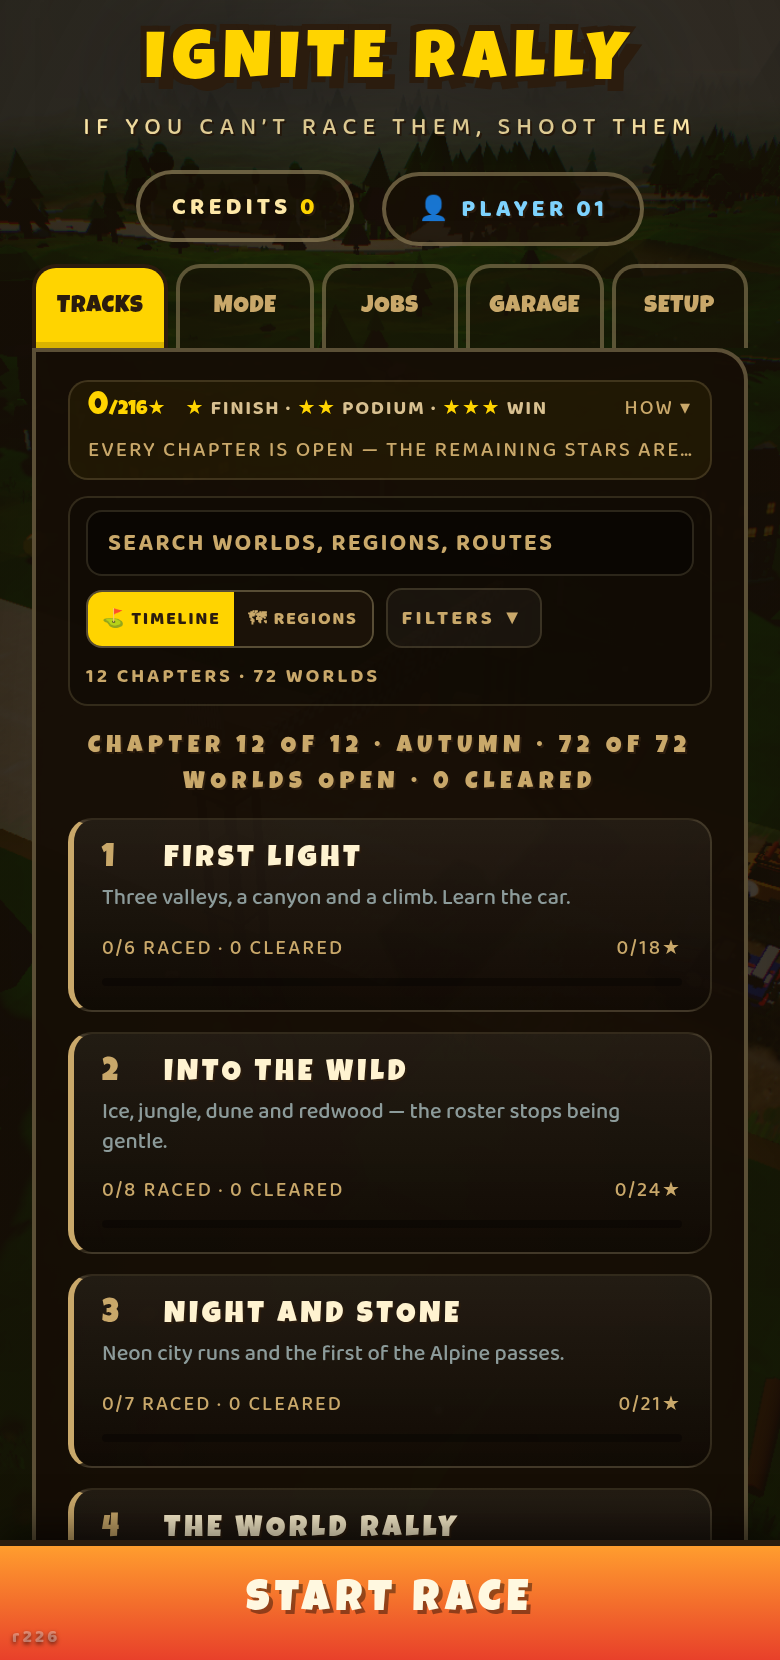
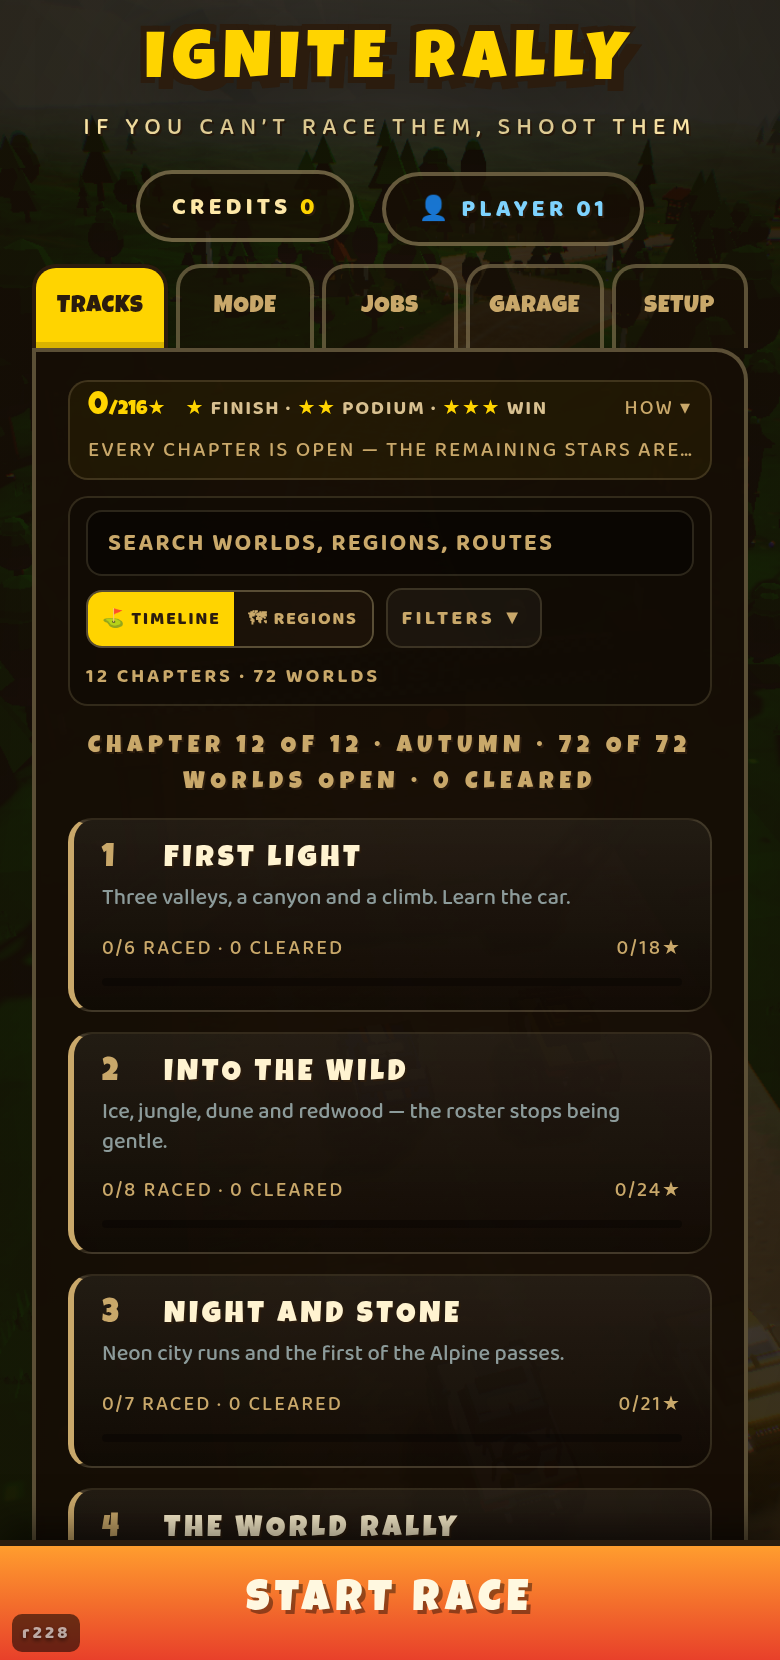
r228: BACK is orange, the same orange as START RACE
The two bars are the two ends of the screen now, so one colour across both
says "these are the buttons" and leaves everything between them as text.
Gold-on-dark read as one more chip in a menu already full of gold-on-dark chips
— CREDITS, the profile, the tabs, the filter chips, the world badges — which is
a large part of why the control was hard to find in the first place. Same
gradient, same ink border, same press-down as .btn, sized for a header rather
than a footer.

Grown to a 40px minimum while there: it measured 31px, under every touch-target
guideline going, and "more obvious" is a size argument as much as a colour one.
inline-flex so min-height cannot fight the padding; the bar goes 48 -> 57px.

Measured at 320 and 390 wide: button 81x40, fully inside the bar, label 10px
clear, bar flush at top=0 edge to edge at 0/25/60/100% scroll.

test-boot 7/0, test-ladder 31/0, test-timeline 33/0, test-filters 35/0, no
sideways scroll, last card still clears the footer.

Claude-Session: https://claude.ai/code/session_01LagJ6uqqYS7wLYxpkyrkHY

diff --git a/index.html b/index.html
@@ -741,8 +741,27 @@
     box-shadow:0 3px 12px rgba(0,0,0,.55)}
   #topbar.hidden{display:none}
   /* BACK is the biggest thing in the bar, because it is the only thing in the
-     bar you can press. The rest is a label. */
-  #topbar-back{font-size:13px;padding:7px 13px}
+     bar you can press. The rest is a label.
+     ORANGE, THE SAME ORANGE AS START RACE — the two bars are now the two ends
+     of the screen, and giving them one colour says "these are the buttons" and
+     leaves everything else as text. Gold-on-dark read as another chip in a
+     menu already full of gold-on-dark chips, which is a large part of why the
+     control was hard to find at all. Same gradient, same ink border, sized for
+     a header rather than a footer. */
+  /* 40px MINIMUM, because it is a phone control and 31px was under every
+     touch-target guideline there is — and "make it more obvious" is a size
+     argument as much as a colour one. inline-flex so the min-height cannot
+     fight the padding. */
+  #topbar-back{font-size:13px;padding:7px 14px;border-radius:10px;
+    min-height:40px;display:inline-flex;align-items:center;
+    color:#fff8e0;background:linear-gradient(180deg,#ff9d2e,#e8402a);
+    border:2px solid var(--ink);
+    text-shadow:1px 1px 0 rgba(0,0,0,.35);
+    box-shadow:0 3px 0 var(--ink),0 6px 14px rgba(0,0,0,.45)}
+  #topbar-back:hover,#topbar-back:focus-visible{border-color:var(--ink);
+    filter:brightness(1.08)}
+  #topbar-back:active{transform:translateY(2px);
+    box-shadow:0 1px 0 var(--ink),0 3px 8px rgba(0,0,0,.45)}
   /* The screen centres short content with auto-margin spacers (.screen::before).
      A header must not be centred — with the bar up the page starts at the top. */
   .screen.with-topbar::before{display:none}
@@ -1623,7 +1642,7 @@
 </div>
 <div id="damage-vignette"></div>
 <div id="polish-vignette"></div>
-<div id="build-tag">r227</div>
+<div id="build-tag">r228</div>
 <div id="fade"></div>
 <div id="build-veil"></div>
 
@@ -1934,10 +1953,10 @@
   // its URL + anon key here. Leave empty to keep sync codes only.
   window.IGNITE_SYNC = { url: '', key: '' };
 </script>
-<script type="module" src="./src/main.js?v=r227"></script>
+<script type="module" src="./src/main.js?v=r228"></script>
 <!-- offline arming: registers sw.js and drives the flight badge -->
-<script src="./src/offline.js?v=r227"></script>
+<script src="./src/offline.js?v=r228"></script>
 <!-- rural traffic: self-attaching, polls window.__game (no engine hooks) -->
-<script type="module" src="./src/traffic.js?v=r227"></script>
+<script type="module" src="./src/traffic.js?v=r228"></script>
 </body>
 </html>

diff --git a/sw.js b/sw.js
@@ -16,7 +16,7 @@
  * CACHE is bumped by the release version. Bump it whenever ?v= in index.html
  * is bumped, or phones will keep serving the previous build forever.
  */
-const CACHE = 'ignite-rally-r227';
+const CACHE = 'ignite-rally-r228';
 
 // ---- CORE vs EXTRA ---------------------------------------------------------
 // CORE is everything the game needs to RUN with the radio off: the shell, the

diff --git a/HANDOVER.md b/HANDOVER.md
@@ -1077,3 +1077,21 @@ have settled — and faint white on the new orange footer was unreadable.
 too, and it had already silently corrupted the back-button changelog twice.
 Bump exactly: `#build-tag`, the three `?v=`, and CACHE in sw.js. r227 did it
 with a python replace asserting each of the five strings was found once.
+
+## r228 — BACK IS ORANGE, THE SAME ORANGE AS START RACE
+"Make the back button orange als the start race."
+
+The two bars are the two ends of the screen now, so one colour across both says
+"these are the buttons" and leaves everything between them as text. Gold-on-dark
+read as one more chip in a menu already full of gold-on-dark chips — CREDITS,
+the profile, the tabs, the filter chips, the world badges — which is a large
+part of why the control was hard to find in the first place. Same gradient,
+same ink border, same press-down as `.btn`, sized for a header not a footer.
+
+Grown to a 40px minimum while there: it measured 31px, under every touch-target
+guideline going, and "more obvious" is a size argument as much as a colour one.
+`display:inline-flex` so `min-height` cannot fight the padding. The bar goes
+48 -> 57px for it.
+
+Measured at 320 and 390: button 81x40, fully inside the bar, label 10px clear,
+bar flush top=0 edge to edge at 0/25/60/100% scroll. `tools-scratch/backfit.mjs`.
